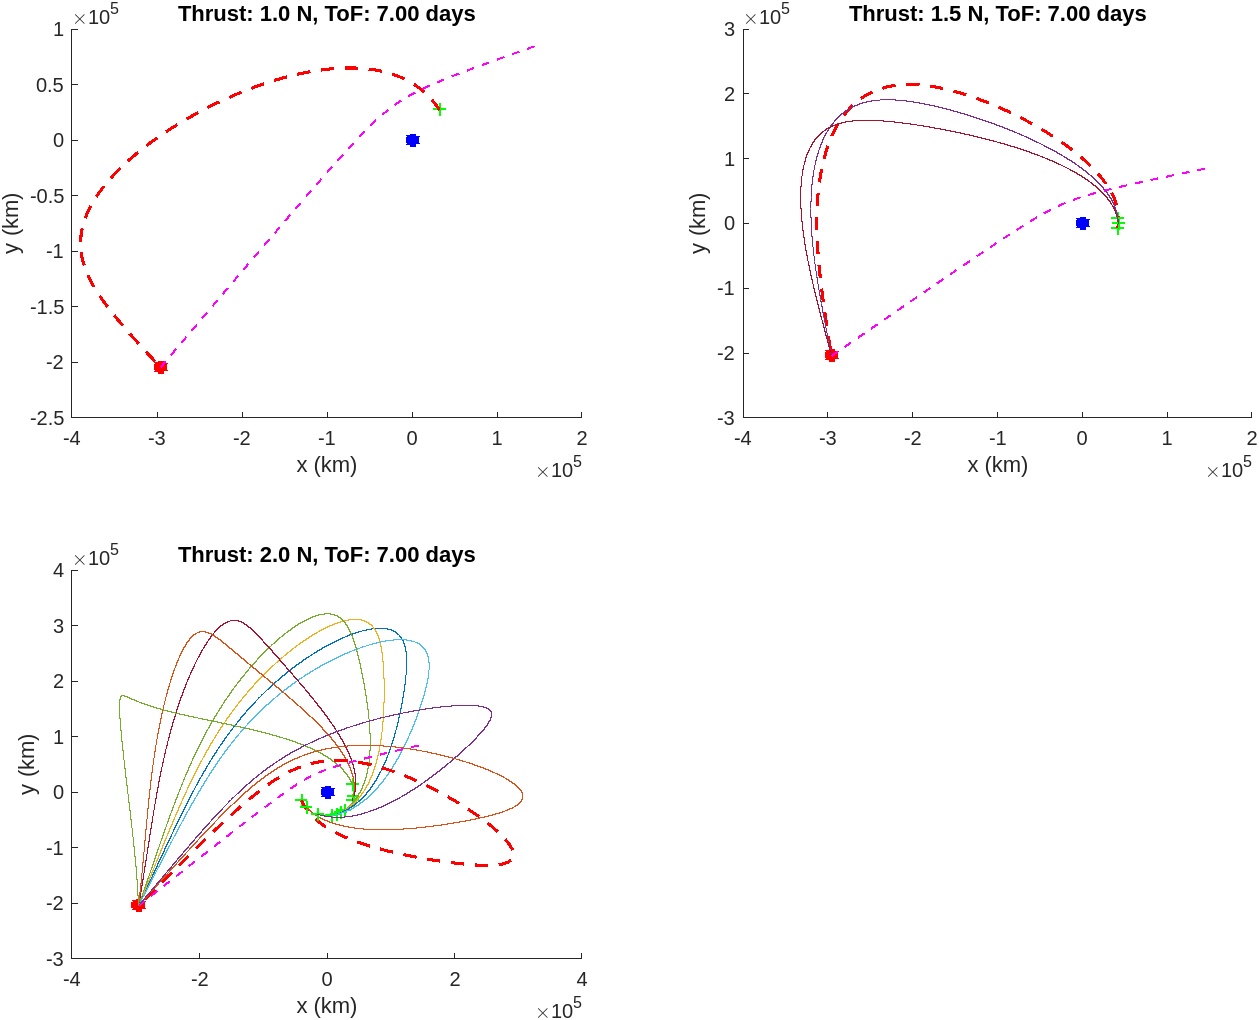
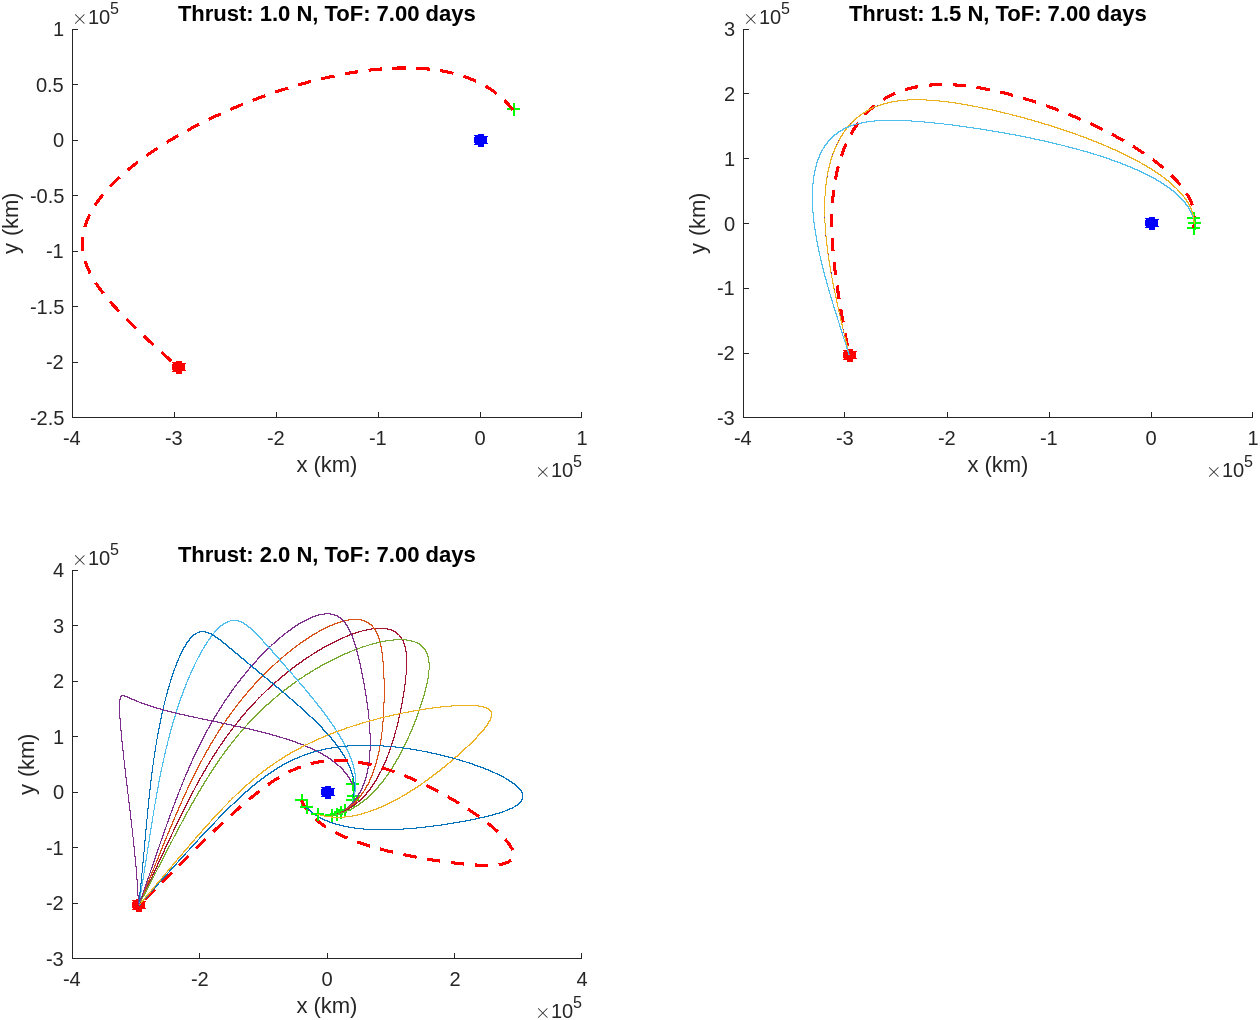
Course Project AE508: updated the diagrams and final and deflection scripts

diff --git a/deflection_report.m b/deflection_report.m
@@ -65,7 +65,7 @@ for massidx = 1:length(asteroid_masses)
 end
 
 % Propagate forward the asteroid orbit using the position
-% and velocity of the asteroid at the time of impact.
+% and velocity of the asteroid at the time of impact in ECI
 [~, Xast] = ode45(@two_body, [0 86400], [default_values.rf;default_values.vf], ...
     opts_ode, default_values.mu);
 ast_to_earth_distances = vecnorm(Xast(:,1:3),2,2);
@@ -78,7 +78,8 @@ ast_to_earth_min_distance = min(ast_to_earth_distances);
 final_results = [];
 for idx = 1:size(asteroid_deltavs,1)
     x = asteroid_deltavs(idx,:);
-    [~, Xastnew] = ode45(@two_body, [0 86400], [default_values.rf;x(2:4)'], ...
+    vast_new = x(2:4)';
+    [~, Xastnew] = ode45(@two_body, [0 86400], [default_values.rf;vast_new], ...
         opts_ode, default_values.mu);
     Xastdist = vecnorm(Xastnew(:,1:3),2,2);
     closest_approach = min(Xastdist);
@@ -93,8 +94,6 @@ best_solutions = sorted(1:min(4,size(sorted,1)),:);
 
 % Plot the Earth and asteroid positions
 figure; hold on;
-plot3(0,0,0, 'g*','LineWidth',3);
-plot3(default_values.rf(1),default_values.rf(2),default_values.rf(3),'r*','LineWidth',3);
 % Plot the first four solutions 
 for bestidx = 1:size(best_solutions,1)
     row = best_solutions(bestidx,:);
@@ -111,6 +110,9 @@ msg3 = sprintf("dv=%g km/s, T=%.1f N, t_f=%.1f days, m_ast=%.3f", ...
     best_solutions(3,5),best_solutions(3,6),best_solutions(3,7)/86400,best_solutions(3,8));
 msg4 = sprintf("dv=%g km/s, T=%.1f N, t_f=%.1f days, m_ast=%.3f", ...
     best_solutions(4,5),best_solutions(4,6),best_solutions(4,7)/86400,best_solutions(4,8));
+
+plot3(0,0,0, 'g*','LineWidth',3);
+plot3(default_values.rf(1),default_values.rf(2),default_values.rf(3),'r*','LineWidth',3);
 
 title('Top 4 best solutions');
 xlabel('x (km)');

diff --git a/final_report.m b/final_report.m
@@ -27,8 +27,6 @@ solutions = results(~isnan(results(:,1)),:);
 % p0' (17:23)
 
 default_state = initial_values();
-[~, Xast] = ode45(@two_body, [default_state.tf default_state.tf+86400], ...
-    [default_state.rf;default_state.vf], opts_ode, default_state.mu);
 
 times = unique(solutions(:,2));
 max_by_tof_thrust = [];
@@ -53,7 +51,6 @@ for timeidx = 1:size(times,1)
         zlabel('z (km)');
         plot3(0,0,0,'b*','LineWidth',3);
         plot3(default_state.rf(1),default_state.rf(2),default_state.rf(3),'r*','LineWidth',3);
-        plot3(Xast(:,1),Xast(:,2),Xast(:,3),'m--','LineWidth',1);
         
         by_thrust = by_time(by_time(:,4) == thrusts(thrustidx),:);
          [~,maxidx] = max(by_thrust(:,1));
